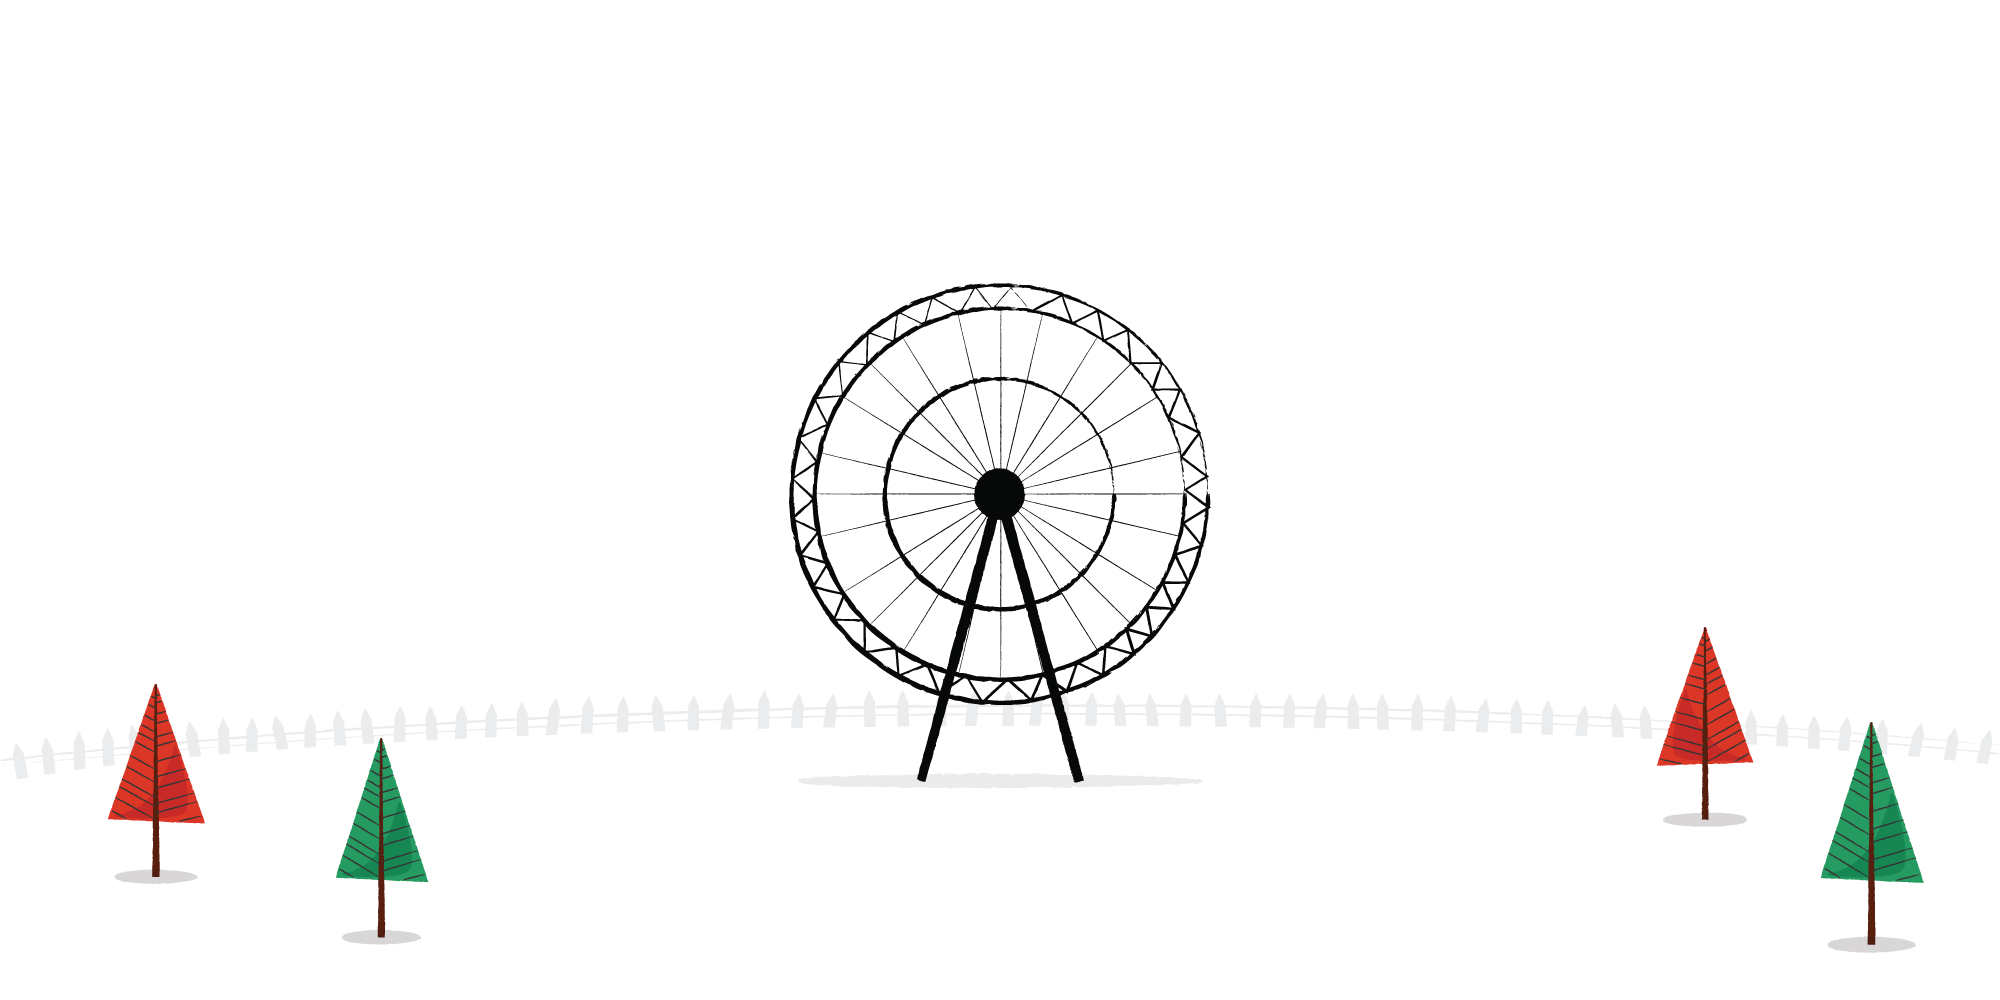
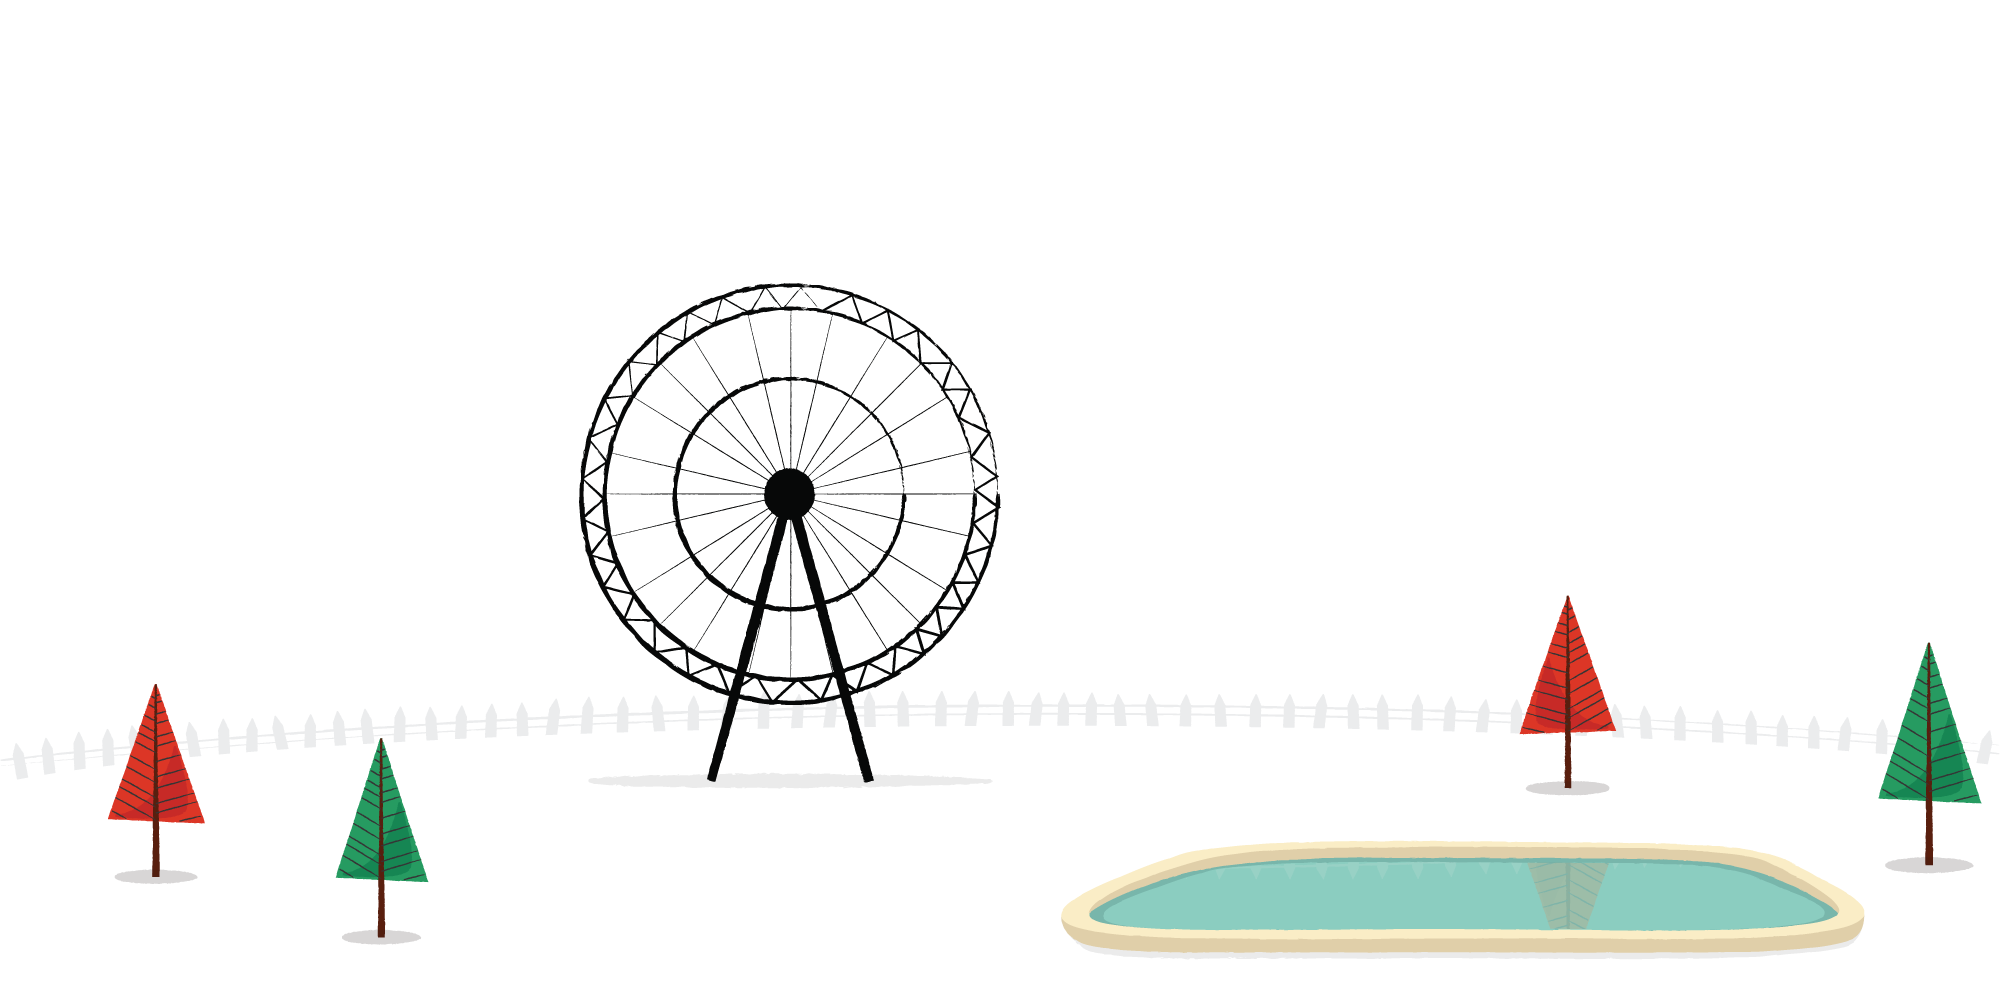
wdwdd

Changed region(s): [[0.279, 0.279, 0.62, 0.775], [0.527, 0.589, 0.992, 0.961]]

diff --git a/sketch.js b/sketch.js
@@ -67,10 +67,10 @@ function draw(){
 
       //관람차
    for(var i = 0 ; i < 8 ; i++){
-      image(wheel1,1000+sin(t1*2*PI+2*PI/8*i)*250-100,500+cos(t1*2*PI+2*PI/8*i)*250-100,200,200);
+      image(wheel1,790+sin(t1*2*PI+2*PI/8*i)*250-100,500+cos(t1*2*PI+2*PI/8*i)*250-100,200,200);
    }
    for(var i = 0 ; i < 4 ; i++){
-      image(wheel2,1000+sin(t1*2*PI+2*PI/4*i)*250-100,500+cos(t1*2*PI+2*PI/4*i)*250-100,200,200);
+      image(wheel2,790+sin(t1*2*PI+2*PI/4*i)*250-100,500+cos(t1*2*PI+2*PI/4*i)*250-100,200,200);
    }
 
    drawsnow1(100,count1);
